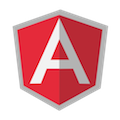
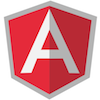
nodejs svg

diff --git a/index.html b/index.html
@@ -1,6 +1,6 @@
-<!DOCTYPE html><html><head><title>Voix</title><meta charset="utf-8"><meta name="viewport" content="width=device-width, initial-scale=1.0"><link href="//netdna.bootstrapcdn.com/font-awesome/4.0.3/css/font-awesome.css" rel="stylesheet"><link rel="stylesheet" href="/assets/css/main.css"><!--[if lt IE 9]><script src="/assets/js/html5shiv.js"></script><![enif]--></head><body><header><div class="voix-brand"></div></header><div class="content"><section class="one"><div class="columns"><div class="column left"><h2>Наши цели</h2><p>Мы специализируемся на создании корпоративного ПО любой сложности.</p><p>При разработке мы делаем основной упор на удобство для конечного пользователя.</p><p>Вторым приоритетом для нас является скорость установки, обновления и настройки нашего ПО.</p><p>Мы очень любим эксперементировать со всем новым и всегда стараемся находиться на острие прогресса.</p></div><div class="column right"><img src="/assets/img/about.png"></div></div></section><section class="two"><div class="columns"><div class="column left"><img src="/assets/img/workflow.png"></div><div class="column right"><h2>Чего мы уже достигли</h2><p>Наши специалисты имеют опыт работы с Web и GIS технологиями с 2005 года.</p><p>Работая для крупных корпоративных заказчиков, мы оптимизировали все наши внутренние
+<!DOCTYPE html><html><head><title>Voix</title><meta charset="utf-8"><meta name="viewport" content="width=device-width, initial-scale=1.0"><link href="//netdna.bootstrapcdn.com/font-awesome/4.0.3/css/font-awesome.css" rel="stylesheet"><link rel="stylesheet" href="/assets/css/main.css"><!--[if lt IE 9]><script src="/assets/js/html5shiv.js"></script><![enif]--></head><body><header><div class="voix-brand"></div></header><div class="content"><section class="one"><div class="columns"><div class="column left"><h2>Наши цели</h2><p>Мы специализируемся на создании корпоративного ПО любой сложности.</p><p>При разработке мы делаем основной упор на удобство для конечного пользователя.</p><p>Вторым приоритетом для нас является скорость установки, обновления и настройки нашего ПО.</p><p>Мы очень любим эксперементировать со всем новым и всегда стараемся находиться на острие прогресса.</p></div><div class="column right"><img src="/assets/img/about.png"></div></div></section><section class="two"><div class="columns"><div class="column left"><img src="/assets/img/workflow.svg"></div><div class="column right"><h2>Чего мы уже достигли</h2><p>Наши специалисты имеют опыт работы с Web и GIS технологиями с 2005 года.</p><p>Работая для крупных корпоративных заказчиков, мы оптимизировали все наши внутренние
 процессы.</p><p>Мы верим что удобство работы наших сотрудников превыше всего, поэтому у нас используются
-самые новые и совершенные инструменты разработки.</p></div></div></section><section class="three"><div class="columns"><div class="column"><h2>Наш текущий стек технологий</h2></div></div><div class="logos"><div class="logo"><a href="http://nodejs.org"><img src="/assets/img/nodejs.png" title="NodeJS"></a></div><div class="desc"><h3>NodeJS</h3><p>Идеален для быстрого прототипирования и создания RESTful JSON API.
+самые новые и совершенные инструменты разработки.</p></div></div></section><section class="three"><div class="columns"><div class="column"><h2>Наш текущий стек технологий</h2></div></div><div class="logos"><div class="logo"><a href="http://nodejs.org"><img src="/assets/img/nodejs.svg" title="NodeJS"></a></div><div class="desc"><h3>NodeJS</h3><p>Идеален для быстрого прототипирования и создания RESTful JSON API.
 А с помощью node-webkit можно создавать полноценные десктоп приложения.
 Огромный выбор библиотек NodeJS с открытым кодом трудно переоценить.</p></div></div><div class="logos"><div class="logo"><a href="http://www.html5rocks.com/" title="HTML5"><img src="/assets/img/html5.svg"></a></div><div class="desc"><h3>HTML5</h3><p>Мы стараемся ориентироваться на современные браузеры, в которых развита поддержка HTML5,
 это позволяет нам максимизировать удобство пользователей.</p></div></div><div class="logos"><div class="logo"><a href="http://angularjs.org/"><img src="/assets/img/angular.svg" title="AngularJS"></a></div><div class="desc"><h3>AngularJS</h3><p>Этот фреймворк от Google уже 2-й год наш постоянный спутник во всех проектах. Его широкие
